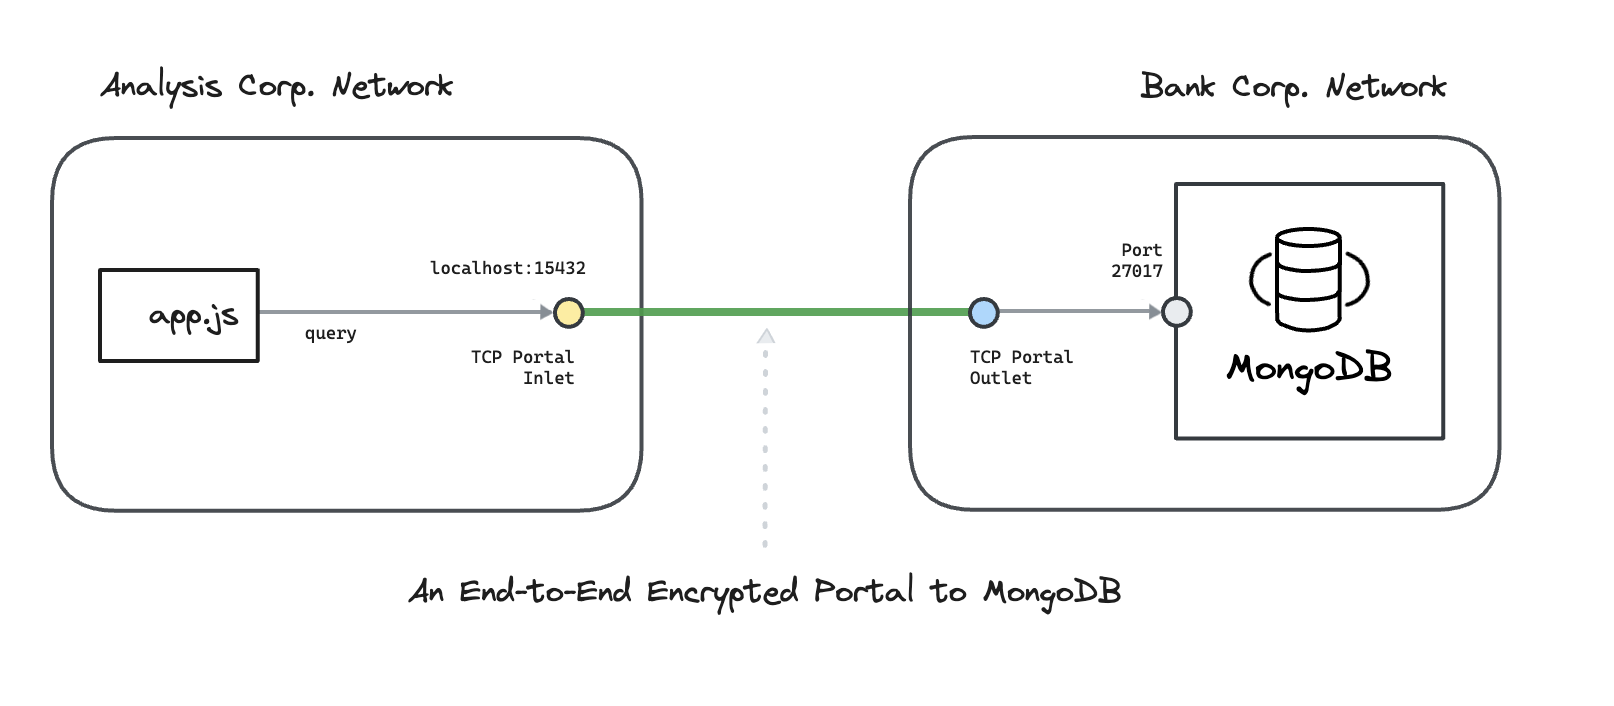
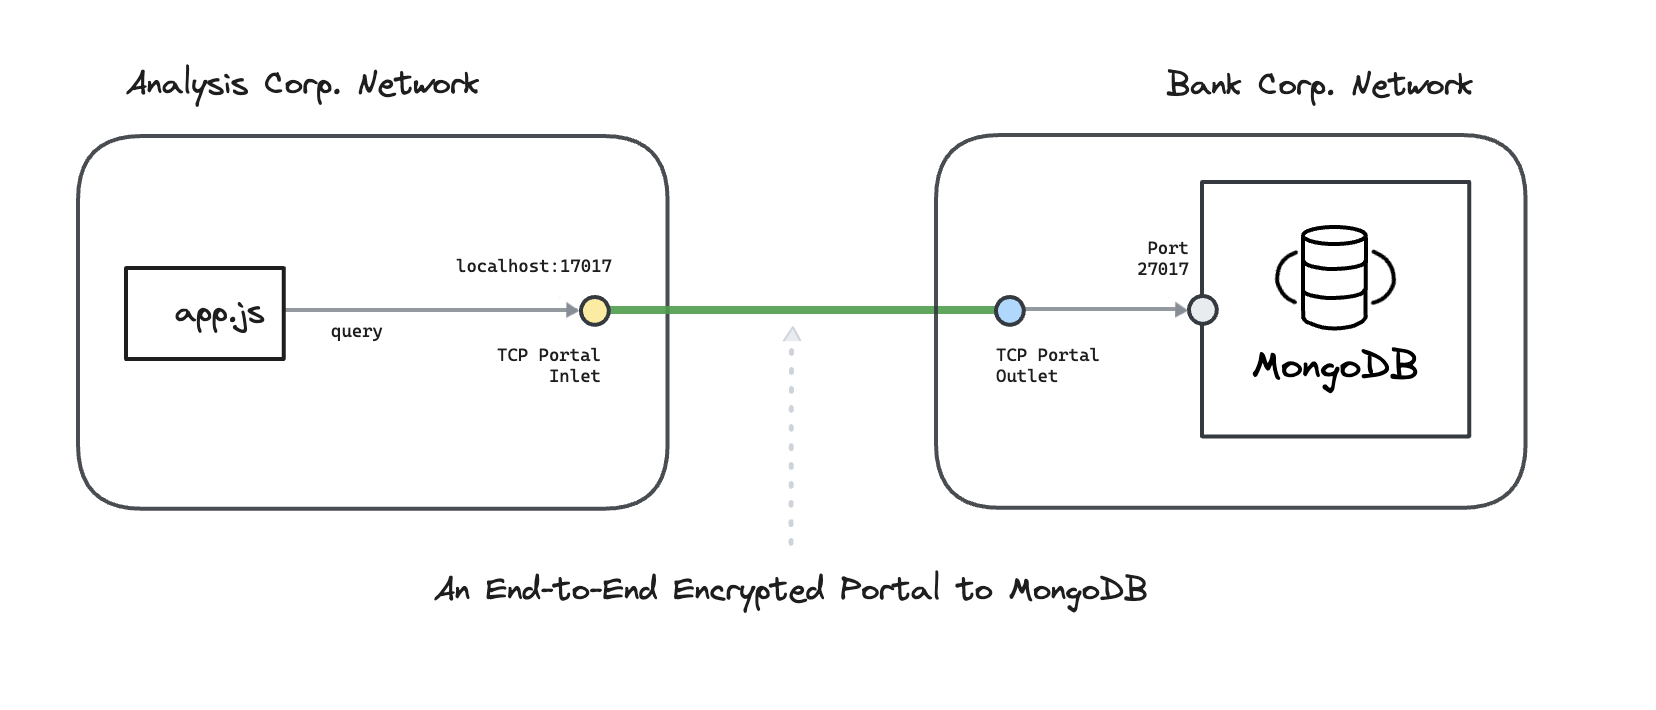
mongodb example: change inlet port to 17017

diff --git a/portals/databases/mongodb/docker.md b/portals/databases/mongodb/docker.md
@@ -79,9 +79,9 @@ networks:
 * The [<mark style="color:blue;">Ockam node container</mark>](https://github.com/build-trust/ockam/blob/develop/examples/command/portals/databases/mongodb/docker/analysis\_corp/docker-compose.yml#L9-L20) is created using [<mark style="color:blue;">this dockerfile</mark>](https://github.com/build-trust/ockam/blob/develop/examples/command/portals/databases/mongodb/docker/ockam.dockerfile) and this [<mark style="color:blue;">entrypoint script</mark>](https://github.com/build-trust/ockam/blob/develop/examples/command/portals/databases/mongodb/docker/analysis\_corp/run\_ockam.sh). The enrollment ticket from run.sh is [<mark style="color:blue;">passed to the container</mark>](https://github.com/build-trust/ockam/blob/develop/examples/command/portals/databases/mongodb/docker/analysis\_corp/docker-compose.yml#L18).
 * When the Ockam node container starts in the Analysis Corp network, it runs [<mark style="color:blue;">its entrypoint</mark>](https://github.com/build-trust/ockam/blob/develop/examples/command/portals/databases/mongodb/docker/analysis\_corp/run\_ockam.sh)<mark style="color:blue;">.</mark> The entrypoint script creates a new identity and uses the enrollment ticket to [<mark style="color:blue;">enroll with your project</mark> ](https://github.com/build-trust/ockam/blob/develop/examples/command/portals/databases/mongodb/docker/analysis\_corp/run\_ockam.sh#L6-L19)and get a project membership credential that attests to the attribute <mark style="background-color:yellow;">mongodb-inlet=true.</mark> The run function [<mark style="color:blue;">assigned this attribute</mark>](https://github.com/build-trust/ockam/blob/develop/examples/command/portals/databases/mongodb/docker/run.sh#L41-L48) to the enrollment ticket.
 * The entrypoint script then [<mark style="color:blue;">creates a node that uses</mark>](https://github.com/build-trust/ockam/blob/develop/examples/command/portals/databases/mongodb/docker/analysis\_corp/run\_ockam.sh#L21-L30) this identity and membership credential. It then sets an [<mark style="color:blue;">access control policy</mark>](https://github.com/build-trust/ockam/blob/develop/examples/command/portals/databases/mongodb/docker/analysis\_corp/run\_ockam.sh#L29C55-L29C91) that only allows project members that possesses a credential with attribute <mark style="background-color:yellow;">mongodb-outlet="true"</mark> to connect to tcp portal inlets on this node.
-* Next, the entrypoint [<mark style="color:blue;">creates tcp portal</mark>](https://github.com/build-trust/ockam/blob/develop/examples/command/portals/databases/mongodb/docker/analysis\_corp/run\_ockam.sh#L30) inlet that makes the [<mark style="color:blue;">remote mongodb</mark>](https://github.com/build-trust/ockam/blob/develop/examples/command/portals/databases/mongodb/docker/analysis\_corp/run\_ockam.sh#L30C50-L30C58) available on all localhost IPs at [<mark style="color:blue;">0.0.0.0:15432</mark>](https://github.com/build-trust/ockam/blob/develop/examples/command/portals/databases/mongodb/docker/analysis\_corp/run\_ockam.sh#L30C31-L30C44). This makes mongodb available at <mark style="background-color:yellow;">ockam:15432</mark> within Analysis Corp’s virtual private network.
+* Next, the entrypoint [<mark style="color:blue;">creates tcp portal</mark>](https://github.com/build-trust/ockam/blob/develop/examples/command/portals/databases/mongodb/docker/analysis\_corp/run\_ockam.sh#L30) inlet that makes the [<mark style="color:blue;">remote mongodb</mark>](https://github.com/build-trust/ockam/blob/develop/examples/command/portals/databases/mongodb/docker/analysis\_corp/run\_ockam.sh#L30C50-L30C58) available on all localhost IPs at [<mark style="color:blue;">0.0.0.0:17017</mark>](https://github.com/build-trust/ockam/blob/develop/examples/command/portals/databases/mongodb/docker/analysis\_corp/run\_ockam.sh#L30C31-L30C44). This makes mongodb available at <mark style="background-color:yellow;">ockam:17017</mark> within Analysis Corp’s virtual private network.
 * Once the Ockam node container [<mark style="color:blue;">is ready</mark>](https://github.com/build-trust/ockam/blob/develop/examples/command/portals/databases/mongodb/docker/analysis\_corp/docker-compose.yml#L27), docker compose starts [<mark style="color:blue;">an app container</mark>](https://github.com/build-trust/ockam/blob/develop/examples/command/portals/databases/mongodb/docker/analysis\_corp/docker-compose.yml#L22-L32). The app container is created using [<mark style="color:blue;">this dockerfile</mark>](https://github.com/build-trust/ockam/blob/develop/examples/command/portals/databases/mongodb/docker/analysis\_corp/app.dockerfile) which runs this [<mark style="color:blue;">app.js</mark>](https://github.com/build-trust/ockam/blob/develop/examples/command/portals/databases/mongodb/docker/analysis\_corp/app.js) file on startup.
-* The app.js file is a nodejs app, it [<mark style="color:blue;">connects with mongodb</mark>](https://github.com/build-trust/ockam/blob/develop/examples/command/portals/databases/mongodb/docker/analysis\_corp/app.js#L7-L26) on <mark style="background-color:yellow;">ockam:15432</mark>, then [<mark style="color:blue;">inserts some data</mark>](https://github.com/build-trust/ockam/blob/develop/examples/command/portals/databases/mongodb/docker/analysis\_corp/app.js#L34-L36), [<mark style="color:blue;">queries it</mark>](https://github.com/build-trust/ockam/blob/develop/examples/command/portals/databases/mongodb/docker/analysis\_corp/app.js#L38) back, and [<mark style="color:blue;">prints it</mark>](https://github.com/build-trust/ockam/blob/develop/examples/command/portals/databases/mongodb/docker/analysis\_corp/app.js#L39-L44).
+* The app.js file is a nodejs app, it [<mark style="color:blue;">connects with mongodb</mark>](https://github.com/build-trust/ockam/blob/develop/examples/command/portals/databases/mongodb/docker/analysis\_corp/app.js#L7-L26) on <mark style="background-color:yellow;">ockam:17017</mark>, then [<mark style="color:blue;">inserts some data</mark>](https://github.com/build-trust/ockam/blob/develop/examples/command/portals/databases/mongodb/docker/analysis\_corp/app.js#L34-L36), [<mark style="color:blue;">queries it</mark>](https://github.com/build-trust/ockam/blob/develop/examples/command/portals/databases/mongodb/docker/analysis\_corp/app.js#L38) back, and [<mark style="color:blue;">prints it</mark>](https://github.com/build-trust/ockam/blob/develop/examples/command/portals/databases/mongodb/docker/analysis\_corp/app.js#L39-L44).
 
 ## Recap
 
